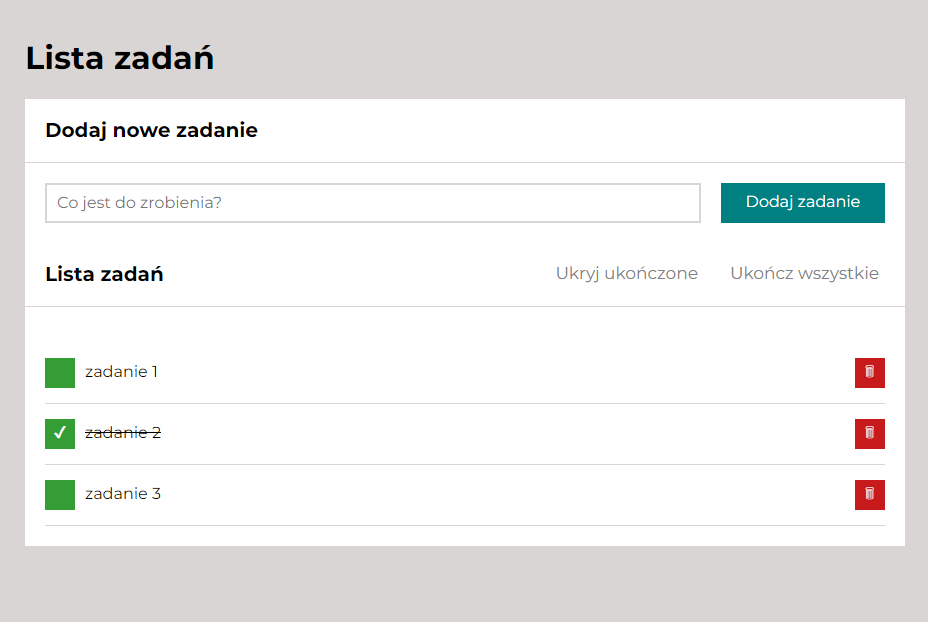
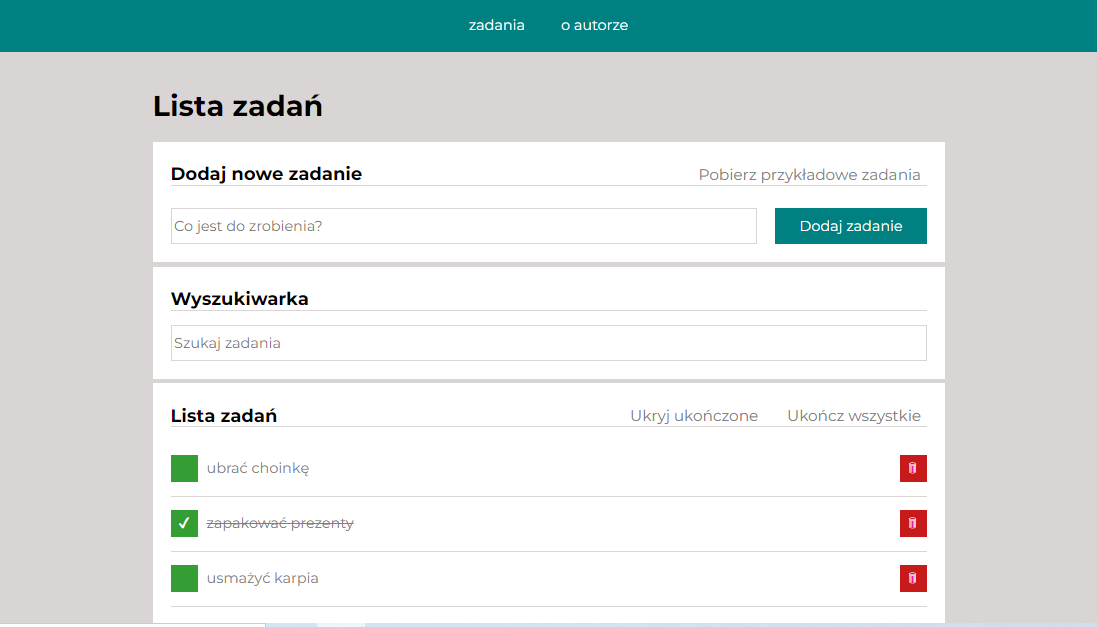
README.md actualization

diff --git a/README.md b/README.md
@@ -6,9 +6,19 @@ https://q270311.github.io/todo-list-react/
 ## Description 
 Project implemented during the _Frontend Developer od podstaw_ course at the **YouCode** -  online programming school.
 
-The web application allows you, to save tasks to be done soon on the board. They can also be words to be learned in another language for example.
-The green button allows you to mark the task as completed.
-Each of the tasks can be removed from the board at any time by clicking the trash can icon.
+The web application allows you to save tasks to be done in the near future on the board. For example, it could be words that need to be learned in another language.
+
+Short description of the program's functionality:
+
+Enter the content of the task into the "Dodaj nowe zadanie" field and confirm it with the "enter" key or click the "Dodaj zadanie" button.
+The green button, to the left of the task, allows you to mark the task as done.
+Each task can be removed from the board at any time, by clicking the trash can icon to the right of the task.
+By clicking on the content of the task, we go to the subpage containing the details of the task.
+The search engine allows you, to find tasks that contain a specific phrase.
+Completed tasks may be invisible - after pressing the "Ukryj ukończone".
+The "Ukończ wszystkie" button, marks all tasks as completed.
+At any time, you can download sample tasks, by clicking "Pobierz przykładowe zadania".
+The "o autorze" tab, contains information about the author of the project.
 
 ## Languages
  - HTML
@@ -21,6 +31,12 @@ Each of the tasks can be removed from the board at any time by clicking the tras
  - React Hooks: useState, useEffect, useRef, own Reaact Hooks
  - Redux
  - Styled components
+ - JS axios async/await function
+ - JS Generator
+ - Redux-Saga
+ - reading/writing data to localStorage
+ - React Router
+
 ## Available Scripts
 
 This project was bootstrapped with [Create React App](https://github.com/facebook/create-react-app).
